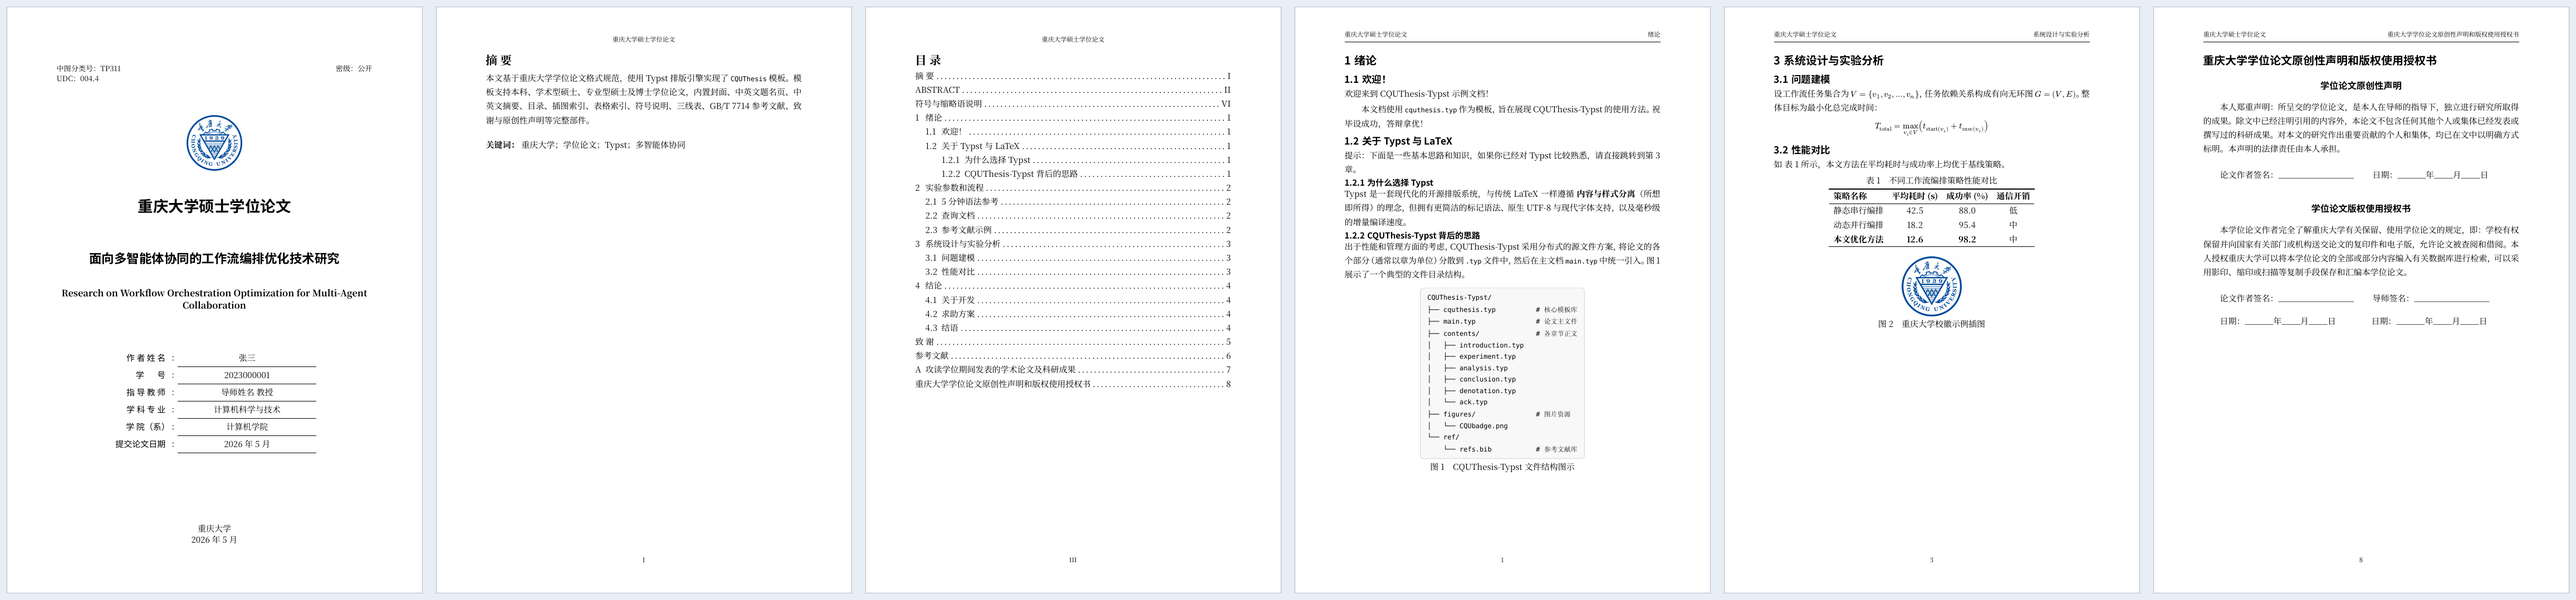
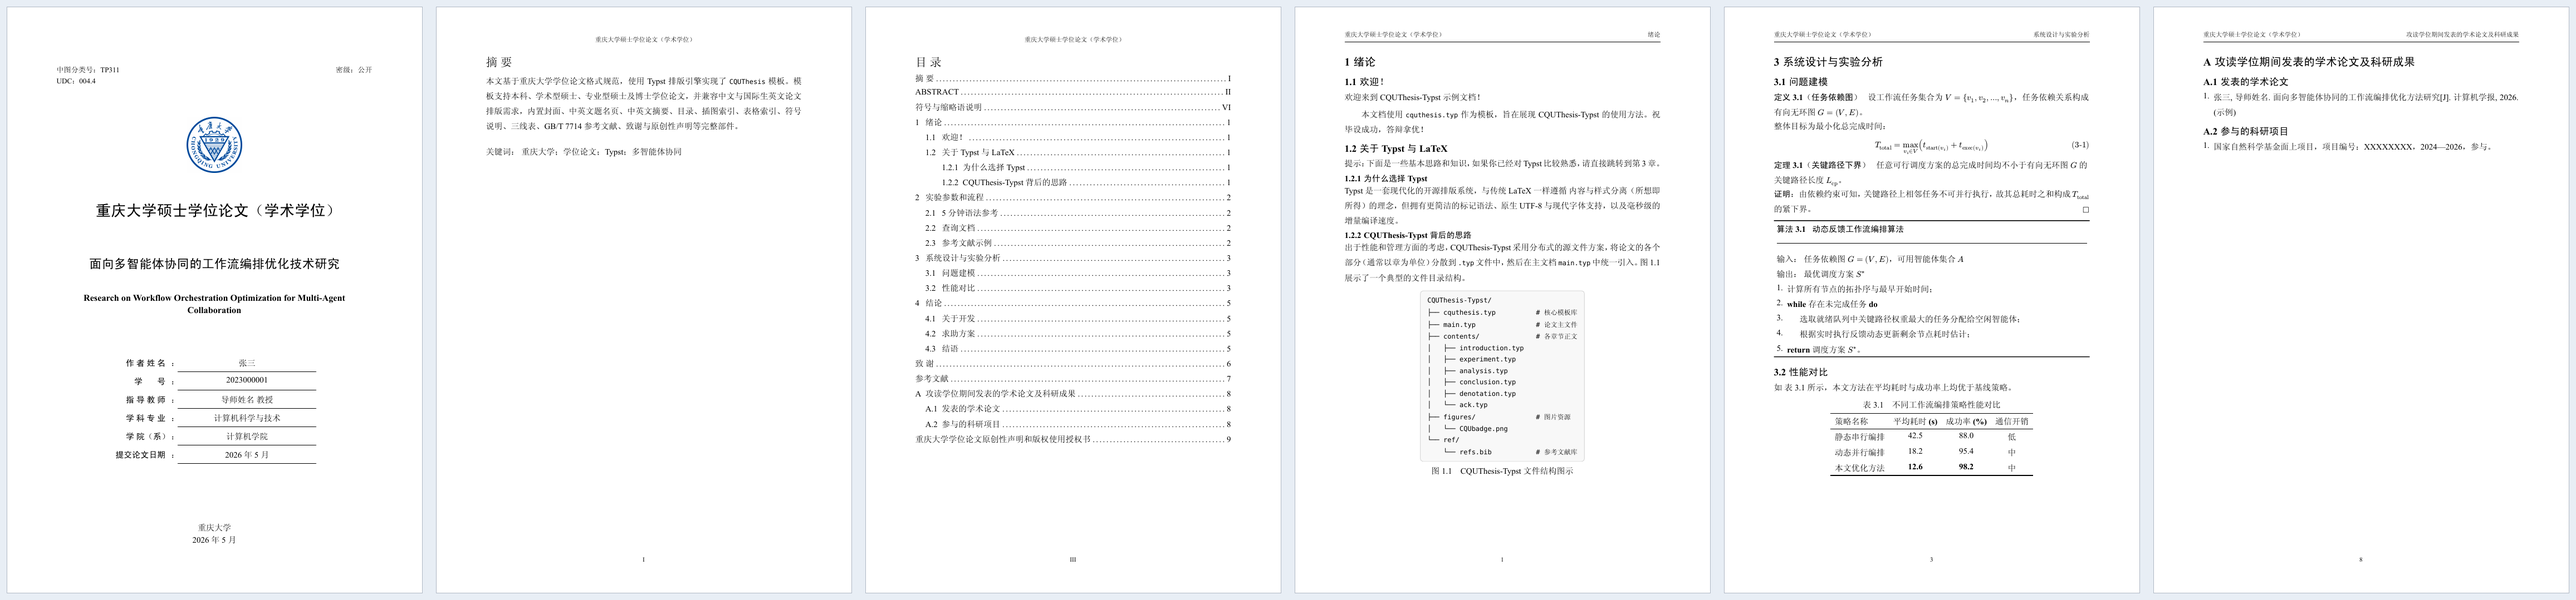
feat: add academic components (theorem/definition/algorithm/bilingual-caption), typst.toml, fonts guide, and multi-mode CI

diff --git a/fonts/README.md b/fonts/README.md
@@ -1,0 +1,9 @@
+# 字体说明
+
+本模板默认优先使用西文字体（`Times New Roman` / `Liberation Serif`）渲染英文与数字，使用中文字体（`SimSun` / `SimHei` / `Noto Serif CJK SC`）渲染中文。
+
+- **Windows / macOS**：系统通常已预装 `Times New Roman`、`SimSun`、`SimHei`，直接编译即可。
+- **Linux**：建议安装 `fonts-noto-cjk` 与 `fonts-liberation`，或将静态版 `SimSun.ttf` / `SimHei.ttf` 放入本目录后使用：
+  ```bash
+  typst compile --font-path fonts main.typ
+  ```
